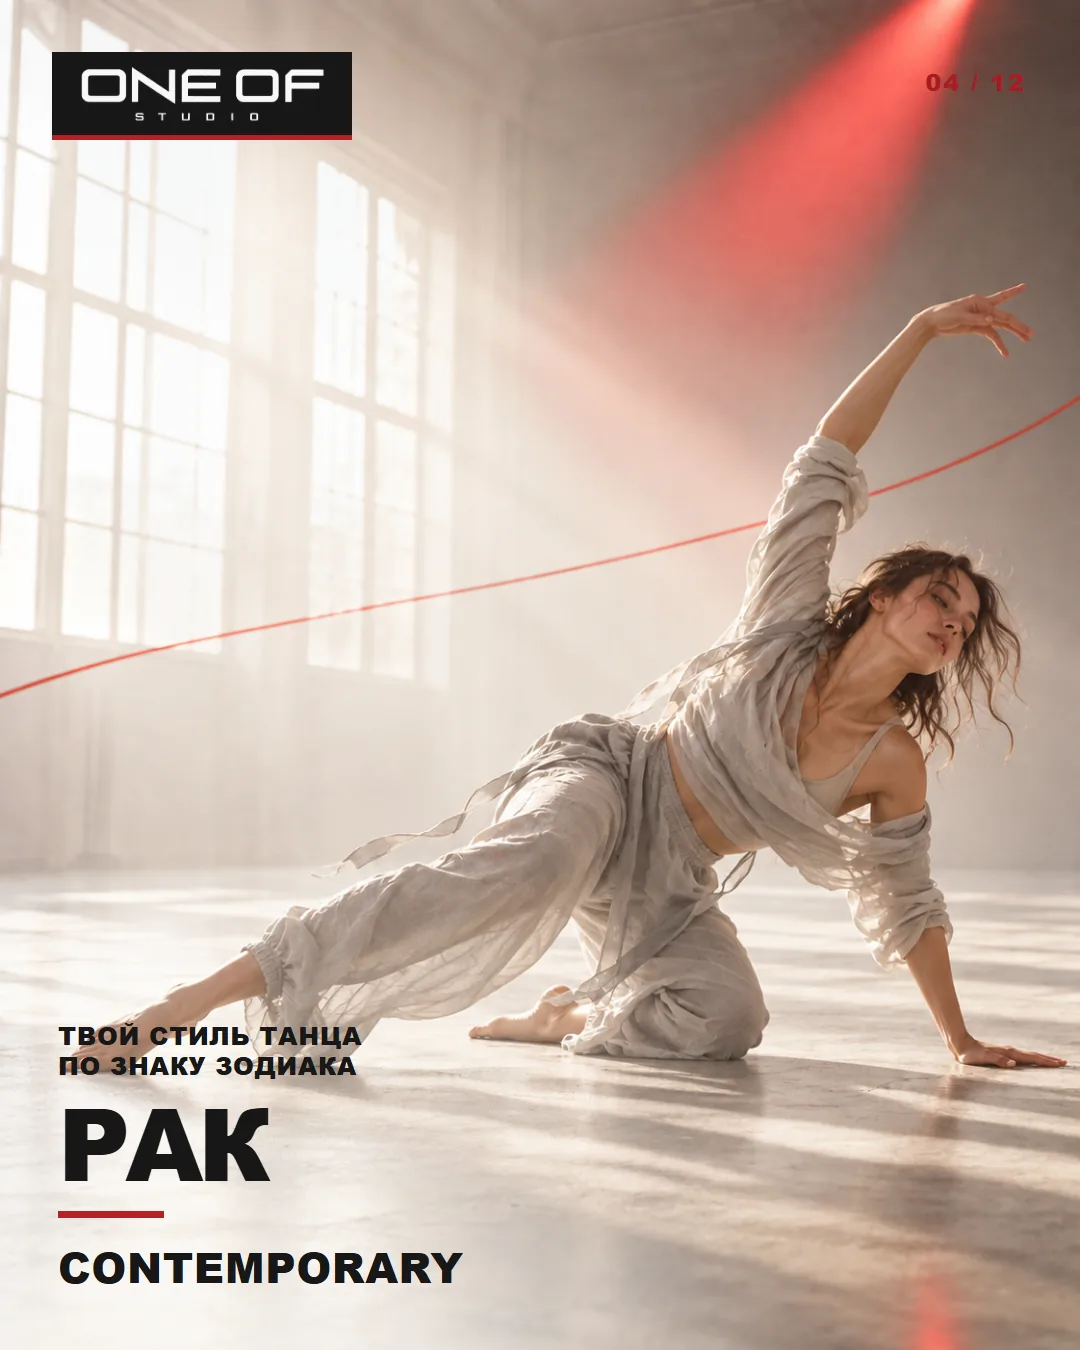
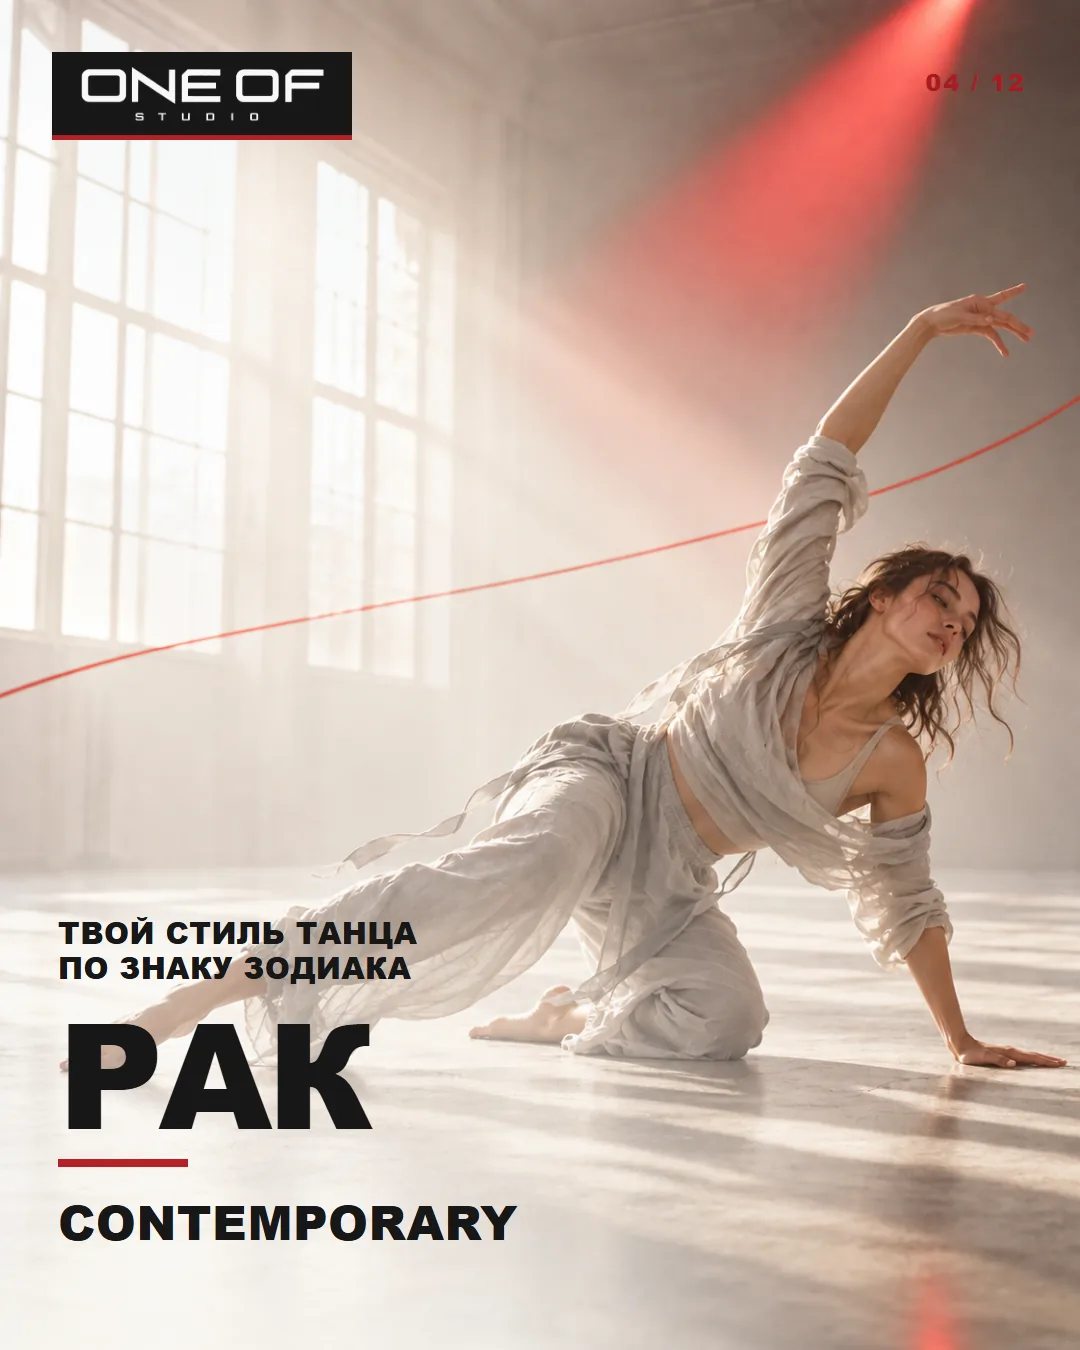
Add zodiac series covers and strengthen card typography
Create two branded covers with verified studio contacts, enlarge card text, and replace Lady Style and Hip-Hop dancers with more expressive poses.

Changed region(s): [[0.0306, 0.6222, 0.7028, 1.0], [0.5806, 0.9022, 0.7944, 1.0]]

diff --git a/tools/render_zodiac_cards.py b/tools/render_zodiac_cards.py
@@ -15,6 +15,7 @@ SOURCE = ROOT / "assets" / "originals" / "zodiac"
 OUTPUT = ROOT / "assets" / "web" / "zodiac"
 LOGO = ROOT / "brand_assets" / "web" / "logo.png"
 PREVIEW = ROOT / "temporary screenshots" / "zodiac-final-contact.jpg"
+COVER_PREVIEW = ROOT / "temporary screenshots" / "zodiac-covers-contact.jpg"
 
 CARDS = [
     ("01", "aries", "ОВЕН", "BREAKING"),
@@ -48,6 +49,9 @@ STUDIO_BADGES = {
 def card_html(photo: Path, number: str, slug: str, sign: str, style: str) -> str:
     badge = STUDIO_BADGES.get(slug)
     badge_html = f'<div class="badge">{badge}</div>' if badge else ""
+    sign_size = {"gemini": 122, "scorpio": 112, "aquarius": 114}.get(
+        slug, 126 if len(sign) >= 8 else 146
+    )
     return f"""<!doctype html><html lang="ru"><head><meta charset="utf-8">
     <style>
       * {{ box-sizing: border-box; }}
@@ -55,31 +59,78 @@ def card_html(photo: Path, number: str, slug: str, sign: str, style: str) -> str
       .card {{ position: relative; width: 1080px; height: 1350px; overflow: hidden;
                background: #f2eee8; color: #171717; font-family: Arial, sans-serif; }}
       .photo {{ position: absolute; width: 100%; height: 100%; object-fit: cover; }}
-      .wash {{ position: absolute; inset: 58% 0 0; background: linear-gradient(0deg,
-                rgba(248,246,241,.84), rgba(248,246,241,.22) 52%, transparent 100%);
-                mask-image: linear-gradient(90deg,#000 0%,#000 39%,transparent 78%); }}
+      .wash {{ position: absolute; inset: 48% 0 0; background: linear-gradient(0deg,
+                rgba(248,246,241,.90), rgba(248,246,241,.38) 54%, transparent 100%);
+                mask-image: linear-gradient(90deg,#000 0%,#000 46%,transparent 86%); }}
       .brand {{ position: absolute; left: 52px; top: 52px; width: 300px; height: 88px;
                 display: flex; align-items: center; justify-content: center;
                 background: #171717; border-bottom: 5px solid #b42125; }}
       .brand img {{ width: 252px; height: auto; display: block; }}
       .number {{ position: absolute; right: 54px; top: 65px; font-size: 24px; font-weight: 800;
                  letter-spacing: 2px; color: #a51d22; }}
-      .badge {{ position: absolute; left: 58px; bottom: 354px; padding: 12px 18px;
+      .badge {{ position: absolute; left: 58px; bottom: 474px; padding: 12px 18px;
                 background: #aa2025; color: #fff; font-size: 23px; line-height: 1;
                 font-weight: 900; letter-spacing: .4px; }}
-      .copy {{ position: absolute; left: 58px; right: 45px; bottom: 54px; }}
-      .eyebrow {{ font-size: 25px; line-height: 1.2; font-weight: 800; letter-spacing: .7px;
-                  margin-bottom: 14px; max-width: 640px; }}
-      .sign {{ font-family: 'Arial Black', Arial, sans-serif; font-size: 100px; line-height: .96;
-               letter-spacing: -5px; font-weight: 900; white-space: nowrap; }}
-      .rule {{ margin-top: 21px; height: 7px; width: 106px; background: #b42125; }}
-      .style {{ margin-top: 19px; font-size: 42px; font-weight: 900; letter-spacing: .7px; }}
+      .copy {{ position: absolute; left: 58px; right: 45px; bottom: 95px; }}
+      .eyebrow {{ font-size: 30px; line-height: 1.17; font-weight: 800; letter-spacing: .5px;
+                  margin-bottom: 18px; max-width: 760px; }}
+      .sign {{ font-family: 'Arial Black', Arial, sans-serif; font-size: {sign_size}px;
+               line-height: .94; letter-spacing: -5px; font-weight: 900; white-space: nowrap; }}
+      .rule {{ margin-top: 19px; height: 8px; width: 130px; background: #b42125; }}
+      .style {{ margin-top: 20px; font-size: 48px; font-weight: 900; letter-spacing: .5px; }}
     </style></head><body>
     <div class="card"><img class="photo" src="{data_url(photo)}"><div class="wash"></div>
     <div class="brand"><img src="{data_url(LOGO)}" alt="ONE OF STUDIO"></div>
     <div class="number">{number} / 12</div>{badge_html}
     <div class="copy"><div class="eyebrow">ТВОЙ СТИЛЬ ТАНЦА<br>ПО ЗНАКУ ЗОДИАКА</div>
     <div class="sign">{sign}</div><div class="rule"></div><div class="style">{style}</div></div>
+    </div></body></html>"""
+
+
+def cover_html(photo: Path, part: int, signs: str) -> str:
+    return f"""<!doctype html><html lang="ru"><head><meta charset="utf-8">
+    <style>
+      * {{ box-sizing: border-box; }}
+      html, body {{ margin: 0; width: 1080px; height: 1350px; }}
+      .cover {{ position: relative; width: 1080px; height: 1350px; overflow: hidden;
+                background: #f2eee8; color: #171717; font-family: Arial, sans-serif; }}
+      .photo {{ position: absolute; width: 100%; height: 100%; object-fit: cover; }}
+      .wash {{ position: absolute; inset: 0; background: linear-gradient(90deg,
+                rgba(248,246,241,.91), rgba(248,246,241,.78) 32%,
+                rgba(248,246,241,.24) 61%, transparent 78%); }}
+      .floor-wash {{ position: absolute; inset: 72% 0 0; background: linear-gradient(0deg,
+                rgba(248,246,241,.81),transparent); mask-image: linear-gradient(90deg,
+                #000 0%, #000 39%, transparent 78%); }}
+      .brand {{ position: absolute; left: 52px; top: 52px; width: 300px; height: 88px;
+                display: flex; align-items: center; justify-content: center;
+                background: #171717; border-bottom: 5px solid #b42125; }}
+      .brand img {{ width: 252px; height: auto; display: block; }}
+      .part {{ position: absolute; left: 58px; top: 220px; padding: 13px 20px;
+               background: #ab2025; color: #fff; font-size: 36px; font-weight: 900; }}
+      .title {{ position: absolute; left: 52px; top: 330px; width: 650px;
+                font-family: 'Arial Black', Arial, sans-serif; font-size: 80px;
+                line-height: .99; letter-spacing: -3px; font-weight: 900; }}
+      .range {{ position: absolute; left: 58px; top: 758px; font-size: 36px;
+                font-weight: 900; letter-spacing: .4px; }}
+      .red-rule {{ position: absolute; left: 58px; top: 825px; width: 150px;
+                   height: 8px; background: #b42125; }}
+      .contact {{ position: absolute; left: 58px; bottom: 58px; width: 670px;
+                  font-weight: 800; }}
+      .address {{ font-size: 27px; line-height: 1.2; margin-bottom: 25px; }}
+      .contact-row {{ display: flex; align-items: baseline; gap: 18px; margin-top: 12px; }}
+      .label {{ width: 160px; color: #a51d22; font-size: 25px; }}
+      .value {{ font-size: 32px; }}
+    </style></head><body>
+    <div class="cover"><img class="photo" src="{data_url(photo)}"><div class="wash"></div>
+    <div class="floor-wash"></div><div class="brand"><img src="{data_url(LOGO)}"
+    alt="ONE OF STUDIO"></div><div class="part">ЧАСТЬ {part} / 2</div>
+    <div class="title">ТВОЙ СТИЛЬ<br>ТАНЦА<br>ПО ЗНАКУ<br>ЗОДИАКА</div>
+    <div class="range">{signs}</div><div class="red-rule"></div>
+    <div class="contact"><div class="address">ХАБАРОВСК · УЛ. КОМСОМОЛЬСКАЯ, 78</div>
+    <div class="contact-row"><span class="label">САЙТ</span>
+    <span class="value">oneofstudio.ru</span></div>
+    <div class="contact-row"><span class="label">TELEGRAM</span>
+    <span class="value">t.me/one_of_studio_khv</span></div></div>
     </div></body></html>"""
 
 
@@ -101,6 +152,17 @@ def main() -> None:
             image.save(target, format="WEBP", quality=82, method=6, exif=b"")
             previews.append((slug, ImageOps.contain(image, (216, 270))))
             print(f"{target.relative_to(ROOT)}: {target.stat().st_size} bytes")
+        cover_previews = []
+        for part, signs in [(1, "ОВЕН — ДЕВА"), (2, "ВЕСЫ — РЫБЫ")]:
+            source = SOURCE / f"cover-part-{part}.png"
+            page.set_content(cover_html(source, part, signs), wait_until="load")
+            page.locator(".photo").evaluate("img => img.decode()")
+            png = page.locator(".cover").screenshot()
+            image = Image.open(BytesIO(png)).convert("RGB")
+            target = OUTPUT / f"cover-part-{part}.webp"
+            image.save(target, format="WEBP", quality=82, method=6, exif=b"")
+            cover_previews.append(ImageOps.contain(image, (432, 540)))
+            print(f"{target.relative_to(ROOT)}: {target.stat().st_size} bytes")
         browser.close()
 
     sheet = Image.new("RGB", (1120, 910), "#ebe9e5")
@@ -113,6 +175,11 @@ def main() -> None:
     PREVIEW.parent.mkdir(exist_ok=True)
     sheet.save(PREVIEW, quality=90)
     print(f"Contact sheet: {PREVIEW.relative_to(ROOT)}")
+    cover_sheet = Image.new("RGB", (924, 590), "#ebe9e5")
+    for index, image in enumerate(cover_previews):
+        cover_sheet.paste(image, (20 + index * 452, 25))
+    cover_sheet.save(COVER_PREVIEW, quality=90)
+    print(f"Cover sheet: {COVER_PREVIEW.relative_to(ROOT)}")
 
 
 if __name__ == "__main__":

diff --git a/docs/ZODIAC_CARDS.md b/docs/ZODIAC_CARDS.md
@@ -1,6 +1,6 @@
 # «Твой стиль танца по знаку зодиака»
 
-Серия из 12 вертикальных карточек ONE OF STUDIO. Готовые изображения находятся в
+Серия из 12 вертикальных карточек и двух обложек ONE OF STUDIO. Готовые изображения находятся в
 `assets/web/zodiac/` (1080 × 1350, WebP). Исходные сгенерированные фотографии
 сохранены локально в `assets/originals/zodiac/` и не входят в Git и публикацию.
 Макет воспроизводится скриптом `tools/render_zodiac_cards.py` при наличии этих
@@ -9,14 +9,14 @@
 | № | Знак | Стиль | Характерное движение |
 | --- | --- | --- | --- |
 | 01 | Овен | Breaking | Опора на одной руке, динамический freeze. |
-| 02 | Телец | Lady Style | Устойчивая линия корпуса и рук. |
+| 02 | Телец | Lady Style | Уверенный взгляд, выразительная линия руки и акцент бедра. |
 | 03 | Близнецы | Choreo | Поворот и разнонаправленные жесты. |
 | 04 | Рак | Contemporary | Пластика на полу и вытянутая линия. |
 | 05 | Лев | Vogue | Геометричная работа рук вокруг лица. |
 | 06 | Дева | Jazz-Funk | Резкий акцент корпуса и руки в широкой стойке. |
 | 07 | Весы | K-Pop Cover Dance | Чёткий point move с жестом у лица и диагональным шагом. |
 | 08 | Скорпион | Dancehall | Низкая силовая стойка. |
-| 09 | Стрелец | Hip-Hop | Широкий прыжок в движении. |
+| 09 | Стрелец | Hip-Hop | Низкий энергичный bounce, акцент плеча и мощный удар рукой. |
 | 10 | Козерог | House | Футворк с переносом веса и поворотом стоп. |
 | 11 | Водолей | Popping | Зафиксированный удар корпуса и угловая линия рук. |
 | 12 | Рыбы | Lyrical Jazz | Устойчивый арабеск с вытянутой линией. |
@@ -27,6 +27,16 @@
 отдельные группы. Breaking и Contemporary на сайте временно скрыты, поэтому
 они не отмечены как действующие направления. Остальные танцы серии не
 обозначены как занятия ONE OF STUDIO.
+
+Крупный текст знака теперь занимает существенную часть нижней трети карточки;
+для длинных названий размер подогнан отдельно, чтобы не перекрывать важные
+части позы. Кадры для Lady Style и Hip-Hop заменены на более выразительные.
+
+Обложки `cover-part-1.webp` и `cover-part-2.webp` делят серию на знаки
+«Овен — Дева» и «Весы — Рыбы». На каждой есть название рубрики, подлинный
+логотип, адрес «Хабаровск · ул. Комсомольская, 78», `oneofstudio.ru` и
+Telegram-канал `@one_of_studio_khv`. Эти сведения взяты из локального
+`index.html`; адрес Telegram относится именно к каналу студии.
 
 ## Визуальное направление и промпты
 
@@ -42,5 +52,6 @@
 Фотографии созданы встроенным `image_gen`. Макет добавляет подлинный
 `brand_assets/web/logo.png` в одинаковом месте, без генерации букв в логотипе.
 Экспорт выполнен с качеством WebP 82. Исходники занимали 1,6–1,9 МБ каждый;
-готовые карточки — 55–78 КБ каждая. Контактный лист проверки хранится локально
-в `temporary screenshots/zodiac-final-contact.jpg`.
+готовые карточки и обложки — 53–77 КБ каждая. Контактные листы проверки
+хранятся локально в `temporary screenshots/zodiac-final-contact.jpg` и
+`temporary screenshots/zodiac-covers-contact.jpg`.

diff --git a/docs/REQUESTS.md b/docs/REQUESTS.md
@@ -29,6 +29,9 @@
 | R-015 | 25.09.2026, уточнение в диалоге Codex | Проверить анатомическую корректность танцоров на всех карточках. | done | Ручной просмотр исходников в полном размере; дефектный вариант Водолея исключён. Итоговая серия — `assets/web/zodiac/`. |
 | R-016 | 25.09.2026, уточнение в диалоге Codex | Поза танцора должна быть характерной для указанного на карточке стиля. | done | Кадры отобраны и доработаны по движениям из `docs/ZODIAC_CARDS.md`. |
 | R-017 | 25.09.2026, уточнение в диалоге Codex | Отметить на карточках стили, которые встречаются в студии, по локальной версии сайта. | done | Choreo и K-Pop отмечены как направления, Lady Style — как набор, Hip-Hop и Jazz-Funk — как части Choreo; `assets/web/zodiac/`, `docs/ZODIAC_CARDS.md`. |
+| R-018 | 26.09.2026, диалог Codex | Создать две обложки рубрики для частей 1 и 2 в том же стиле, с логотипом, сайтом и Telegram студии. | done | `assets/web/zodiac/cover-part-1.webp`, `assets/web/zodiac/cover-part-2.webp`; реквизиты сверены по `index.html`, описание в `docs/ZODIAC_CARDS.md`. |
+| R-019 | 26.09.2026, уточнение в диалоге Codex | Сделать текст на карточках с танцорами крупнее и заметнее. | done | Обновлён макет всех 12 карточек в `tools/render_zodiac_cards.py`; итог в `assets/web/zodiac/`. |
+| R-020 | 26.09.2026, уточнение в диалоге Codex | Усилить энергию Hip-Hop до уровня Dancehall-карточки и дать Lady Style уверенный attitude, как у Vogue. | done | Кадры Стрельца и Тельца заменены; соответствие движения стилю описано в `docs/ZODIAC_CARDS.md`. |
 
 Для новых запросов добавляйте отдельные строки с датой, смыслом и статусом.
 Если запрос изменяет прежнее решение, укажите связанные ID вместо удаления
